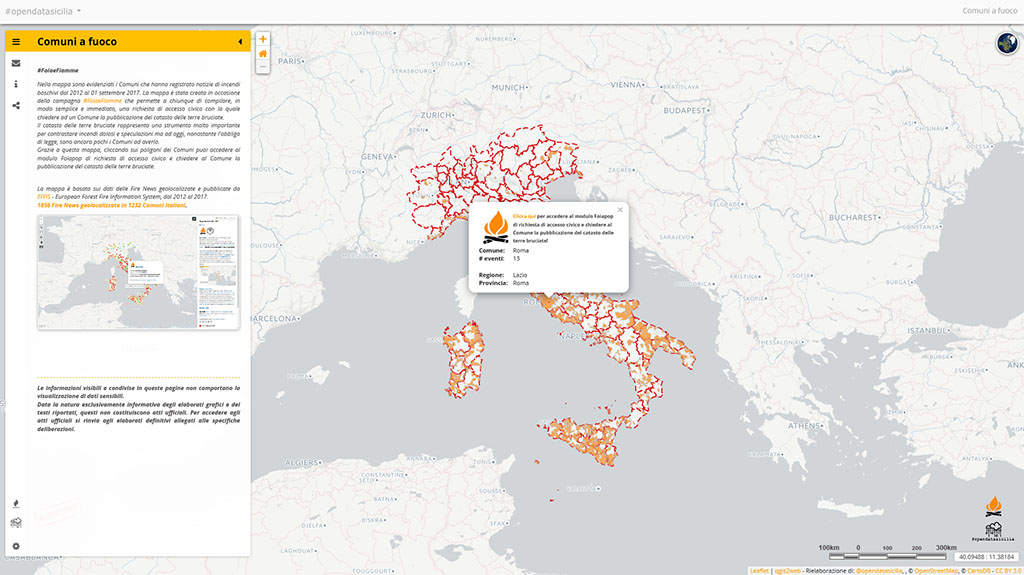
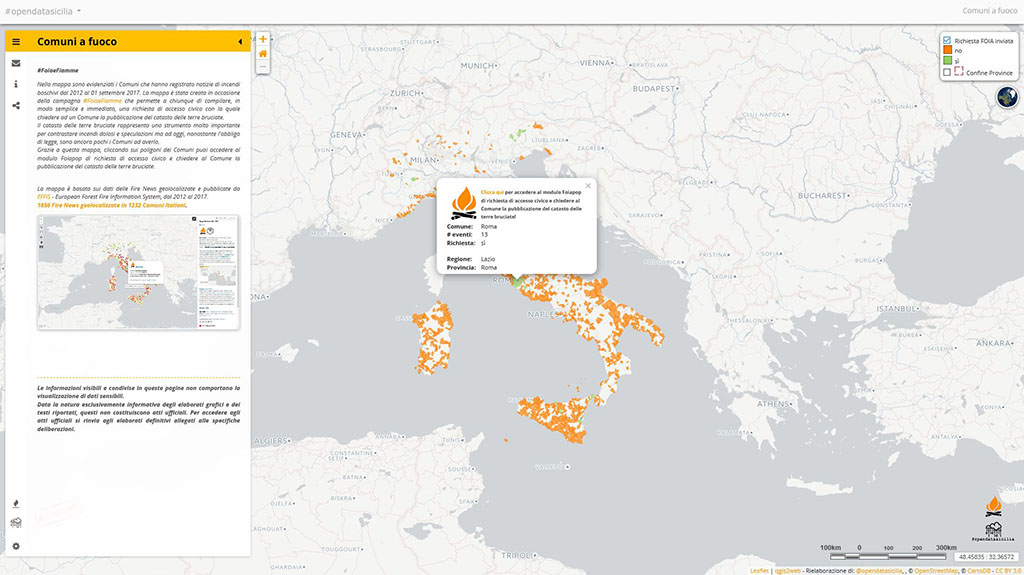
index con richiesta foia

diff --git a/comuniafuoco/index.html b/comuniafuoco/index.html
@@ -98,7 +98,7 @@
 <script src="lib/js/basemap/L.Control.Basemaps.js"></script>
 
         <!-- script dati mappa -->
- <script src="data/comunieventilink0.js"></script>
+ <script src="data1/comunieventilink0.js"></script>
 <script src="data/province0.js"></script>
 
     </head>
@@ -147,7 +147,9 @@ Grazie a questa mappa, cliccando sui poligoni dei Comuni puoi accedere al modulo
  <br>per <strong><a href="http://opendatasicilia.it/" Title="Open Data Sicilia" target="_blank">Open Data Sicilia</a></strong> e <strong><a href="http://italiaafuoco.info/" Title="Italia a Fuoco" target="_blank">Italia a Fuoco</a></strong><br>
    <p class="lorem"><strong>Fonte dati:</strong> <br>  <a href="http://effis.jrc.ec.europa.eu/applications/fire-news/" title="EFFIS - European Forest Fire Information System" target="_blank">EFFIS - European Forest Fire Information System - Copernicus</a> <br><a href="https://www.istat.it/it/archivio/124086" title="Confini delle unità amministrative a fini statistici - ISTAT" target="_blank">Confini delle unità amministrative a fini statistici - ISTAT<br> <br><br> 
 <a href="http://effis.jrc.ec.europa.eu/applications/fire-news/" title="EFFIS - European Forest Fire Information System" target="_blank"><img src="legend/fire-news.jpg"alt="Fire News" width="370" height="262" class="clip_about" title="Fire News Copernicus"/></a><br><br> I dati Fire News sono rilasciati con la licenza <a href="http://effis.jrc.ec.europa.eu/about-effis/data-license/" title="Data License - EFFIS" target="_blank">Data License - EFFIS</a></p> 
-<br><br><br><br><br><br><br><br>
+<br><br>
+  <p class="lorem"> <em>Mappa work in progress!</em><br>
+  <em>Stiamo lavorando per aggiungare altri Comuni.</em>  <br><br><br><br>
 <hr>
 <p class="lorem">   <a href="http://creativecommons.org/licenses/by/4.0/" target="_blank" rel="license"><img alt="Licenza Creative Commons" style="border-width:0" src="https://i0.wp.com/i.creativecommons.org/l/by/4.0/88x31.png?ssl=1"  title="Tutto il materiale da me rielaborato è distribuito con Licenza Creative Commons Attribuzione 4.0 Internazionale." data-recalc-dims="1"/></a><br />
 <a href="http://creativecommons.org/licenses/by/4.0/" title="Licenza Creative Commons" target="_blank" rel="license">Creative Commons Attribuzione 4.0 Internazionale</a> - <a href="https://creativecommons.org/licenses/by/4.0/deed.it" title="Licenza Creative Commons" target="_blank" rel="license">Creative Commons Attribuzione 4.0 Italia</a> </p> 
@@ -155,6 +157,7 @@ Grazie a questa mappa, cliccando sui poligoni dei Comuni puoi accedere al modulo
 <p class="lorem"> <em>Le informazioni visibili e condivise in queste pagine non comportano la visualizzazione di dati sensibili.</em><br>
   <em>Data la natura esclusivamente informativa degli elaborati grafici e dei testi riportati, questi non costituiscono atti ufficiali.</em>
    <em>Per accedere agli atti ufficiali si rinvia agli elaborati definitivi allegati alle specifiche deliberazioni.</em> </p>
+ 
 </div>
 
 <!-- Tab Progetto Italia a Fuoco -->
@@ -392,6 +395,10 @@ function pop_comunieventilink0(feature, layer) {
                         <th scope="row"># eventi:&nbsp;&nbsp;</th>\
                         <td>' + (feature.properties['numero_eventi'] !== null ? Autolinker.link(String(feature.properties['numero_eventi'])) : '') + '</td>\
                     </tr>\
+										 <tr>\
+                        <th scope="row">Richiesta:&nbsp;&nbsp;</th>\
+                        <td>' + (feature.properties['richiesta'] !== null ? Autolinker.link(String(feature.properties['richiesta'])) : '') + '</td>\
+                    </tr>\
 					<tr>\
                         <th scope="row"><br/>Regione:&nbsp;&nbsp;</th>\
                         <td><br/>' + (feature.properties['cod_reg'] !== null ? Autolinker.link(String(feature.properties['cod_reg'])) : '') + '</td>\
@@ -403,20 +410,37 @@ function pop_comunieventilink0(feature, layer) {
                 </table>';
             layer.bindPopup(popupContent);
         }
-
-        function style_comunieventilink0_0() {
-            return {
+		        function style_comunieventilink0_0(feature) {
+            switch(feature.properties['richiesta'].toString()) {
+                case 'no':
+                    return {
                 pane: 'pane_comunieventilink0',
                 opacity: 1,
-                color: 'rgba(190,190,190,0.65)',
+                color: 'rgba(255,127,0,0.65)',
                 dashArray: '',
                 lineCap: 'butt',
                 lineJoin: 'miter',
-                weight: 1, 
+                weight: 1.0, 
                 fillOpacity: 1,
-                fillColor: 'rgba(255,127,0,0.65)',
+                fillColor: 'rgba(255,127,0,0.65',
+            }
+                    break;
+                case 'sì':
+                    return {
+                pane: 'pane_comunieventilink0',
+                opacity: 1,
+                color: 'rrgba(145,207,96,0.65',
+                dashArray: '',
+                lineCap: 'butt',
+                lineJoin: 'miter',
+                weight: 1.0, 
+                fillOpacity: 1,
+                fillColor: 'rgba(145,207,96,0.65)',
+            }
+                    break;
             }
         }
+	
         map.createPane('pane_comunieventilink0');
         map.getPane('pane_comunieventilink0').style.zIndex = 450;
         map.getPane('pane_comunieventilink0').style['mix-blend-mode'] = 'normal';
@@ -484,7 +508,7 @@ function pop_comunieventilink0(feature, layer) {
     });
         bounds_group.addLayer(layer_province0);
         var baseMaps = {};
-        L.control.layers(baseMaps,{'&nbsp;&nbsp;<img src="legend/province0.png" />&nbsp;&nbsp;Confine Province': layer_province0,}).addTo(map);
+        L.control.layers(baseMaps,{'&nbsp;&nbsp;Richiesta FOIA inviata<br /><table><tr><td style="text-align: center;"><img src="legend/no.png" /></td><td>&nbsp;&nbsp;no</td></tr><tr><td style="text-align: center;"><img src="legend/si.png" /></td><td>&nbsp;&nbsp;sì</td></tr></table>': layer_comunieventilink0,'&nbsp;&nbsp;<img src="legend/province0.png" />&nbsp;&nbsp;Confine Province': layer_province0,}).addTo(map);
         setBounds();
 		<!-- strumenti di leaflet -->
 		
